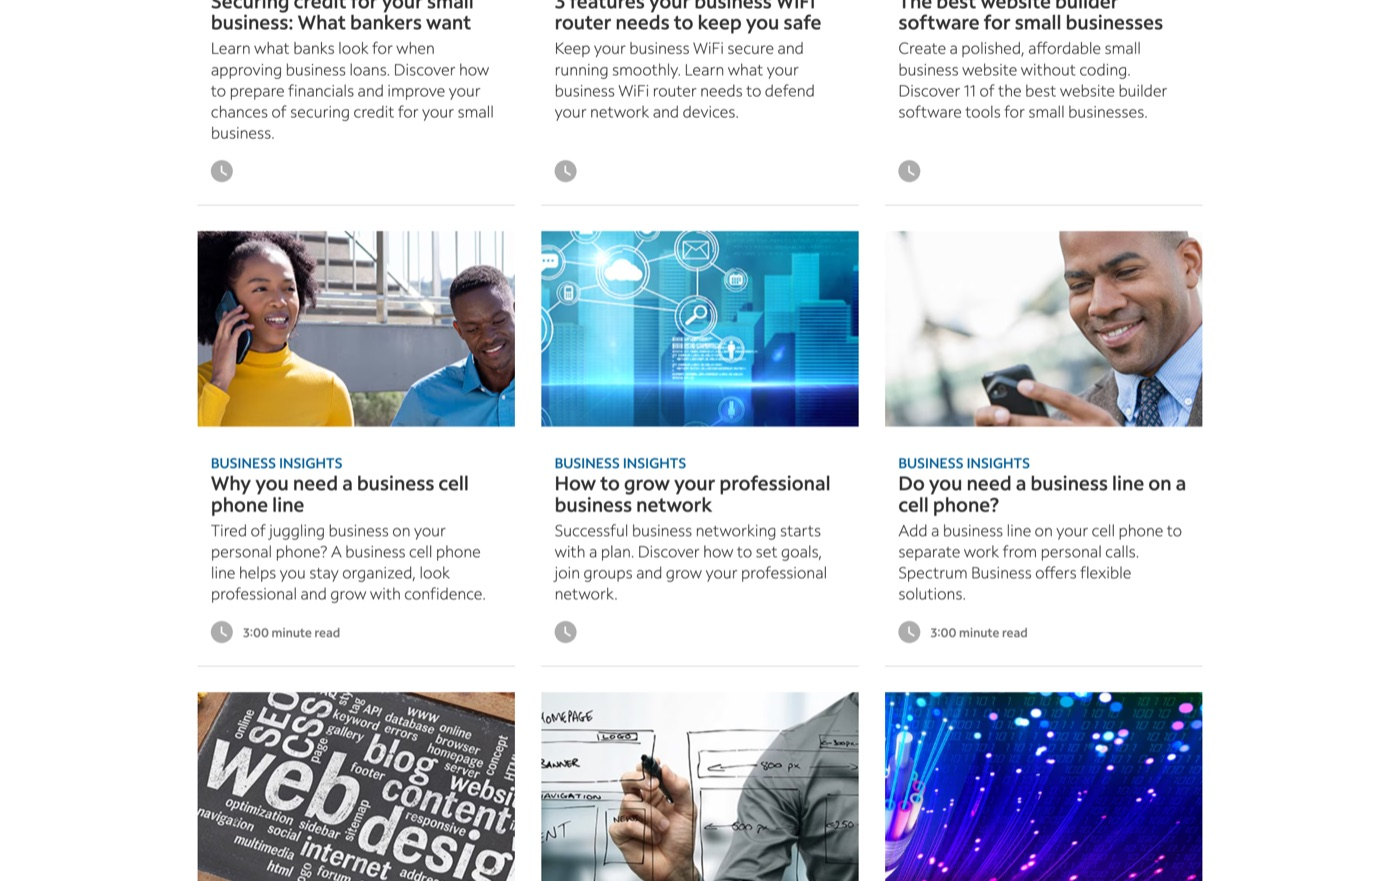
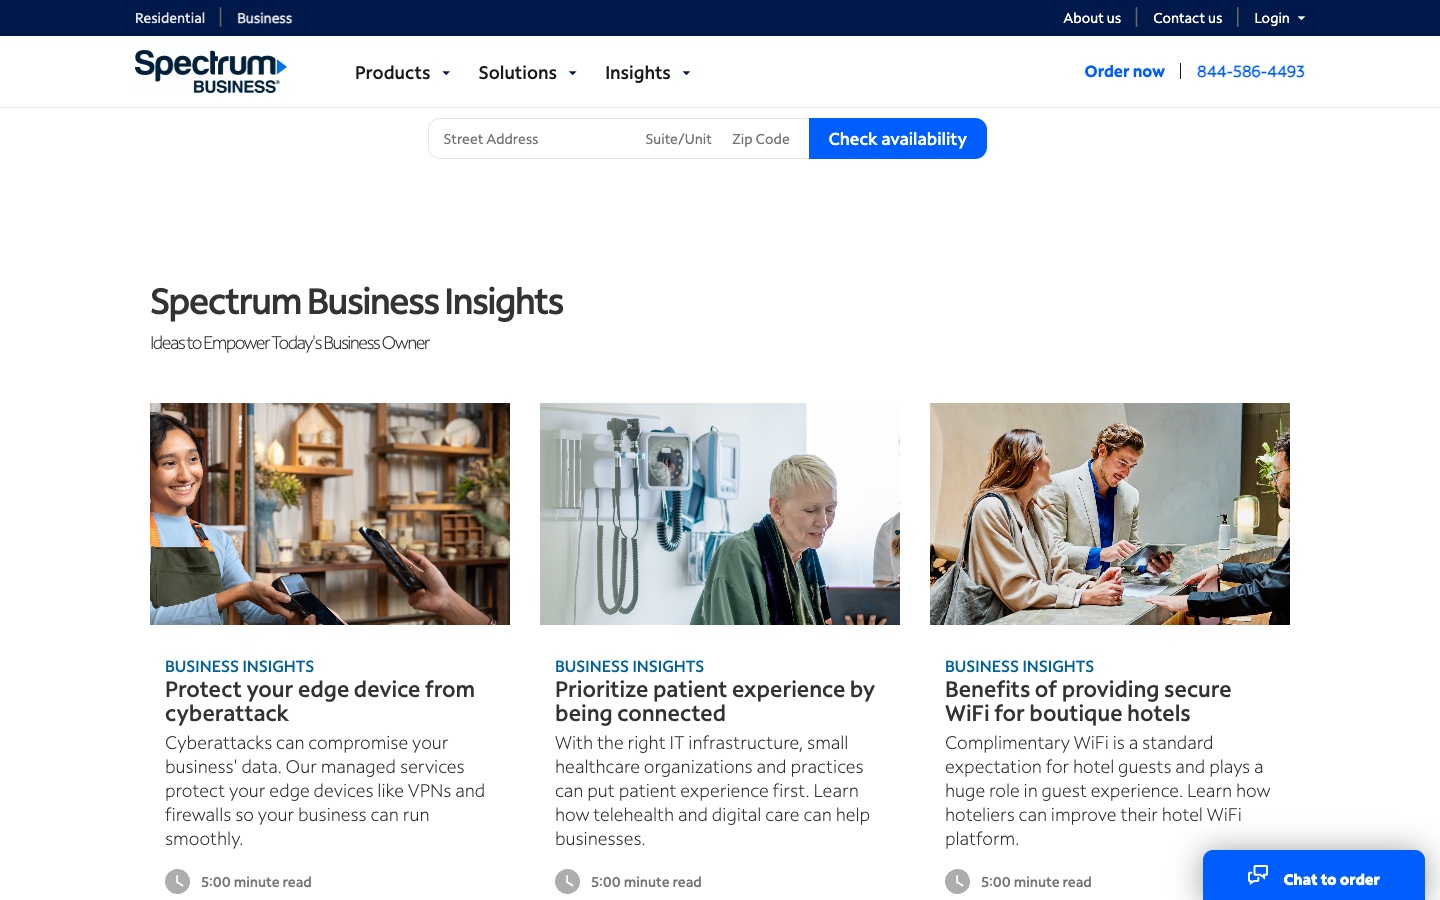
Insights image from top; Figma panel adds Tablet and Mobile artboards beside Desktop

diff --git a/cs-charter-smb-homepage.html b/cs-charter-smb-homepage.html
@@ -837,25 +837,52 @@
             </div>
             <!-- Canvas content -->
             <div style="display:flex;align-items:flex-start;justify-content:center;padding:24px 40px 40px;min-height:calc(100% - 20px);">
-              <div style="display:flex;flex-direction:column;align-items:center;gap:40px;">
-                <!-- Artboard label -->
-                <div id="lb-figma-artboard-label" style="align-self:flex-start;color:#888;font-size:11px;font-weight:500;margin-bottom:-32px;"></div>
-                <!-- Artboard -->
-                <div style="position:relative;">
-                  <!-- Selection handles -->
-                  <div style="position:absolute;inset:-6px;border:2px solid #18a0fb;pointer-events:none;border-radius:1px;">
-                    <div style="position:absolute;top:-3px;left:-3px;width:6px;height:6px;background:#18a0fb;border-radius:1px;"></div>
-                    <div style="position:absolute;top:-3px;right:-3px;width:6px;height:6px;background:#18a0fb;border-radius:1px;"></div>
-                    <div style="position:absolute;bottom:-3px;left:-3px;width:6px;height:6px;background:#18a0fb;border-radius:1px;"></div>
-                    <div style="position:absolute;bottom:-3px;right:-3px;width:6px;height:6px;background:#18a0fb;border-radius:1px;"></div>
-                    <div style="position:absolute;top:-3px;left:50%;transform:translateX(-50%);width:6px;height:6px;background:#18a0fb;border-radius:1px;"></div>
-                    <div style="position:absolute;bottom:-3px;left:50%;transform:translateX(-50%);width:6px;height:6px;background:#18a0fb;border-radius:1px;"></div>
+              <div style="display:flex;flex-direction:row;align-items:flex-start;gap:48px;padding-bottom:48px;">
+
+                <!-- Desktop artboard -->
+                <div style="display:flex;flex-direction:column;align-items:center;gap:8px;">
+                  <div id="lb-figma-artboard-label" style="color:#888;font-size:11px;font-weight:500;align-self:flex-start;"></div>
+                  <div style="position:relative;">
+                    <div style="position:absolute;inset:-6px;border:2px solid #18a0fb;pointer-events:none;border-radius:1px;">
+                      <div style="position:absolute;top:-3px;left:-3px;width:6px;height:6px;background:#18a0fb;border-radius:1px;"></div>
+                      <div style="position:absolute;top:-3px;right:-3px;width:6px;height:6px;background:#18a0fb;border-radius:1px;"></div>
+                      <div style="position:absolute;bottom:-3px;left:-3px;width:6px;height:6px;background:#18a0fb;border-radius:1px;"></div>
+                      <div style="position:absolute;bottom:-3px;right:-3px;width:6px;height:6px;background:#18a0fb;border-radius:1px;"></div>
+                      <div style="position:absolute;top:-3px;left:50%;transform:translateX(-50%);width:6px;height:6px;background:#18a0fb;border-radius:1px;"></div>
+                      <div style="position:absolute;bottom:-3px;left:50%;transform:translateX(-50%);width:6px;height:6px;background:#18a0fb;border-radius:1px;"></div>
+                    </div>
+                    <div id="lb-figma-img-wrap" style="background:#fff;box-shadow:0 4px 32px rgba(0,0,0,.6);width:580px;overflow:hidden;"></div>
                   </div>
-                  <div id="lb-figma-img-wrap" style="background:#fff;box-shadow:0 4px 32px rgba(0,0,0,.6);width:660px;overflow:hidden;"></div>
                 </div>
-                <!-- Red guide line -->
-                <div style="position:absolute;top:96px;left:0;right:0;height:1px;background:rgba(255,80,80,.5);pointer-events:none;"></div>
+
+                <!-- Tablet artboard -->
+                <div style="display:flex;flex-direction:column;align-items:center;gap:8px;">
+                  <div style="color:#666;font-size:11px;font-weight:500;align-self:flex-start;" id="lb-figma-tablet-label"></div>
+                  <div style="position:relative;">
+                    <div id="lb-figma-tablet-wrap" style="background:#fff;box-shadow:0 4px 20px rgba(0,0,0,.5);width:260px;overflow:hidden;opacity:.7;"></div>
+                  </div>
+                </div>
+
+                <!-- Mobile artboard -->
+                <div style="display:flex;flex-direction:column;align-items:center;gap:8px;">
+                  <div style="color:#666;font-size:11px;font-weight:500;align-self:flex-start;" id="lb-figma-mobile-label"></div>
+                  <div style="position:relative;">
+                    <!-- phone shell -->
+                    <div style="background:#111;border-radius:24px;padding:12px 8px;box-shadow:0 4px 20px rgba(0,0,0,.6);width:130px;">
+                      <div style="background:#000;border-radius:4px 4px 0 0;height:8px;display:flex;align-items:center;justify-content:center;margin-bottom:2px;">
+                        <div style="width:40px;height:4px;background:#222;border-radius:4px;"></div>
+                      </div>
+                      <div id="lb-figma-mobile-wrap" style="background:#fff;overflow:hidden;width:100%;opacity:.7;"></div>
+                      <div style="background:#000;border-radius:0 0 4px 4px;height:8px;margin-top:2px;display:flex;align-items:center;justify-content:center;">
+                        <div style="width:24px;height:4px;background:#222;border-radius:4px;"></div>
+                      </div>
+                    </div>
+                  </div>
+                </div>
+
               </div>
+              <!-- Red guide line -->
+              <div style="position:absolute;top:96px;left:0;right:0;height:1px;background:rgba(255,80,80,.5);pointer-events:none;"></div>
             </div>
           </div>
 
@@ -1322,6 +1349,18 @@ function openLb(key) {
   // --- FIGMA panel ---
   document.getElementById('lb-figma-filename').textContent = p.title;
   document.getElementById('lb-figma-artboard-label').textContent = p.title + ' — Desktop / 1440';
+  document.getElementById('lb-figma-tablet-label').textContent = p.title + ' — Tablet / 768';
+  document.getElementById('lb-figma-mobile-label').textContent = p.title + ' — Mobile / 375';
+  const tabletWrap = document.getElementById('lb-figma-tablet-wrap');
+  const mobileWrap = document.getElementById('lb-figma-mobile-wrap');
+  if (p.img) {
+    tabletWrap.innerHTML = `<img src="${p.img}" alt="${p.title} tablet" style="width:100%;display:block;" />`;
+    mobileWrap.innerHTML = `<img src="${p.img}" alt="${p.title} mobile" style="width:100%;display:block;" />`;
+  } else {
+    const placeholder = `<div style="height:160px;background:#f0f0f0;display:flex;align-items:center;justify-content:center;"><span style="color:#bbb;font-size:9px;font-family:sans-serif;">No preview</span></div>`;
+    tabletWrap.innerHTML = placeholder;
+    mobileWrap.innerHTML = placeholder;
+  }
 
   // Layer tree with Figma-style icons
   const layerIcons = {'🖥':'<svg width="10" height="10" viewBox="0 0 10 10" fill="none"><rect x="1" y="1" width="8" height="8" rx="1" stroke="#aaa" stroke-width="1"/></svg>',